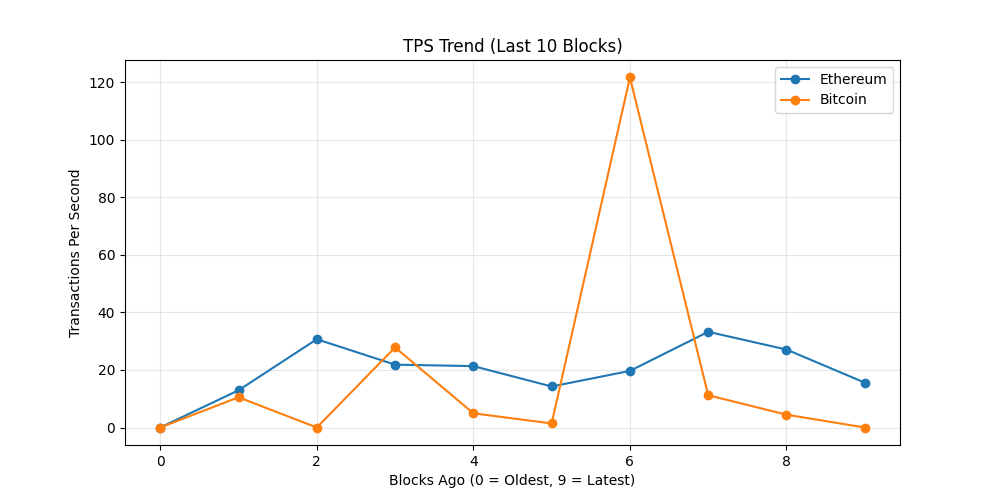
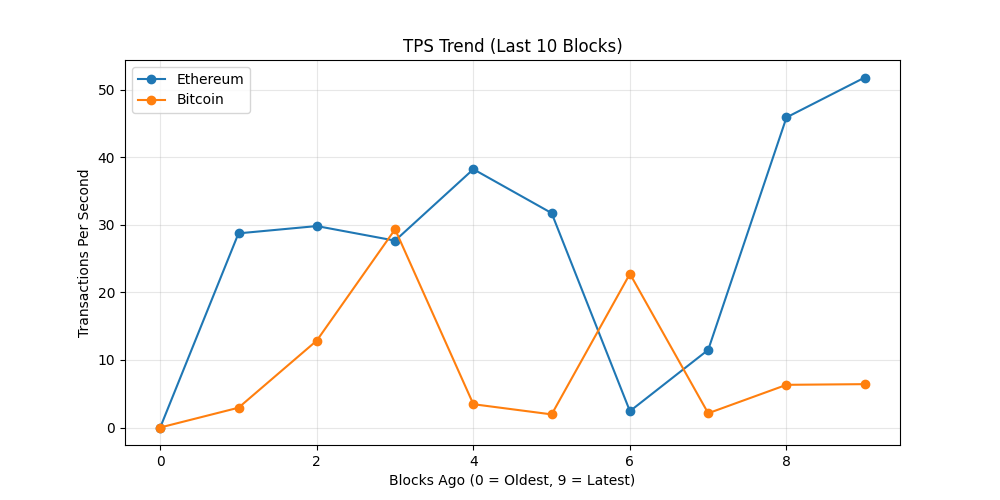
chore: update on-chain dashboard

diff --git a/README.md b/README.md
@@ -19,7 +19,7 @@ The README itself acts as the dashboard and is regenerated automatically on a 6 
 demonstrating a production-style, infrastructure-focused observability workflow rather
 than a traditional UI-driven approach.
 
-_Last updated: 2026-04-04 07:16 UTC_
+_Last updated: 2026-04-04 13:20 UTC_
 
 ## API Usage (GetBlock.io)
 - Calls used: **24**
@@ -27,8 +27,8 @@ _Last updated: 2026-04-04 07:16 UTC_
 ## Network Metrics
 | Chain | Block Height | TX Count | TPS (10 blk avg) | Block Util | Avg Fee |
 |------|-------------|----------|------------------|------------|---------|
-| Ethereum | 24804727 | 187 | 15.58 | 26.92% | 0.1 Gwei |
-| Bitcoin | 943602 | 2839 | 0.0 | 99.8% | N/A |
+| Ethereum | 24806538 | 622 | 51.83 | 94.62% | 0.1 Gwei |
+| Bitcoin | 943624 | 3723 | 6.42 | 99.79% | N/A |
 
 ## Visuals
 ### Transactions Trend
@@ -43,8 +43,10 @@ _Last updated: 2026-04-04 07:16 UTC_
 ## Whale Alerts (latest block)
 - Transaction hashes are truncated for readability.
 - Full hashes are available in `dashboards/metrics.json`
-- Bitcoin | 158.49 BTC | `ab1acb21b612…`
-- Bitcoin | 141.57 BTC | `d277bf182174…`
+- Bitcoin | 199.86 BTC | `c3454fc95a6c…`
+- Bitcoin | 1725.23 BTC | `33f1667c4eec…`
+- Bitcoin | 158.44 BTC | `c7c8d28e508b…`
+- Bitcoin | 141.18 BTC | `f360504e1afc…`
 
 ## Run locally
 
